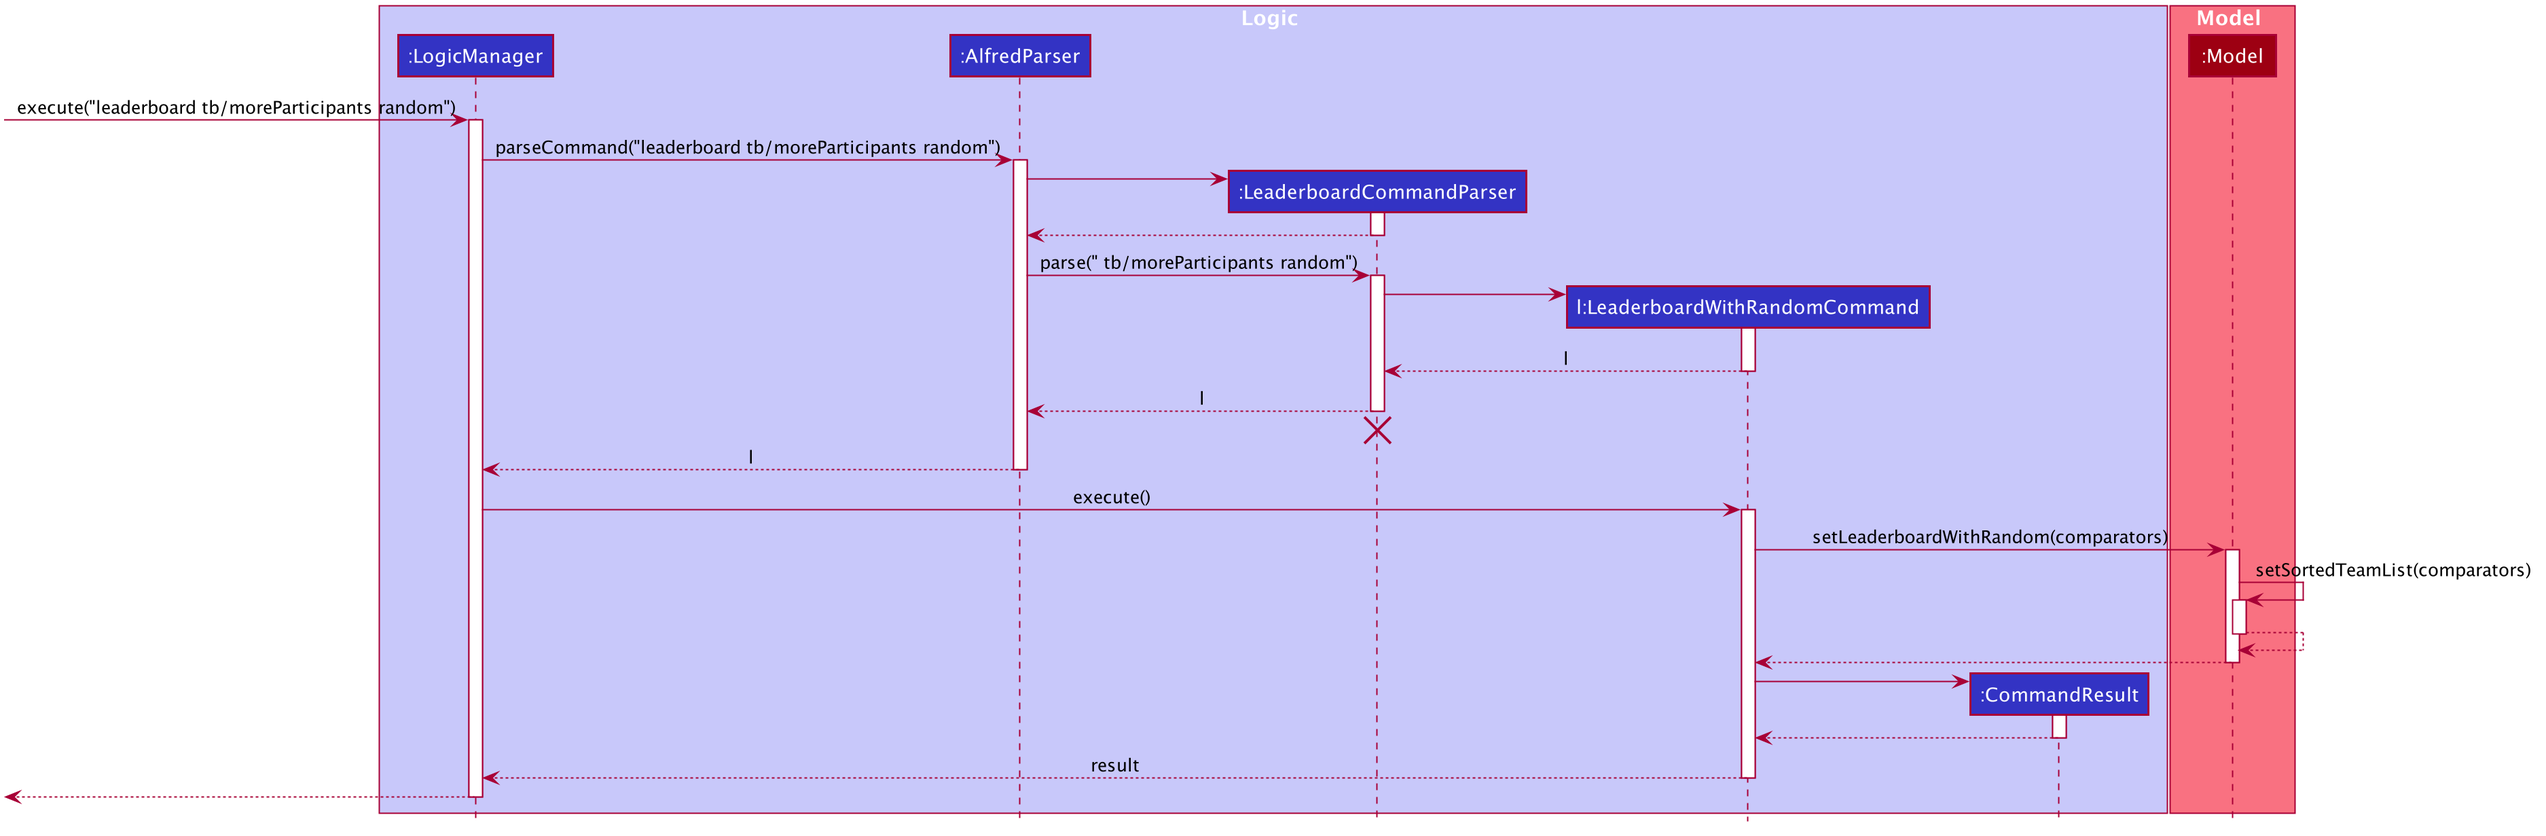
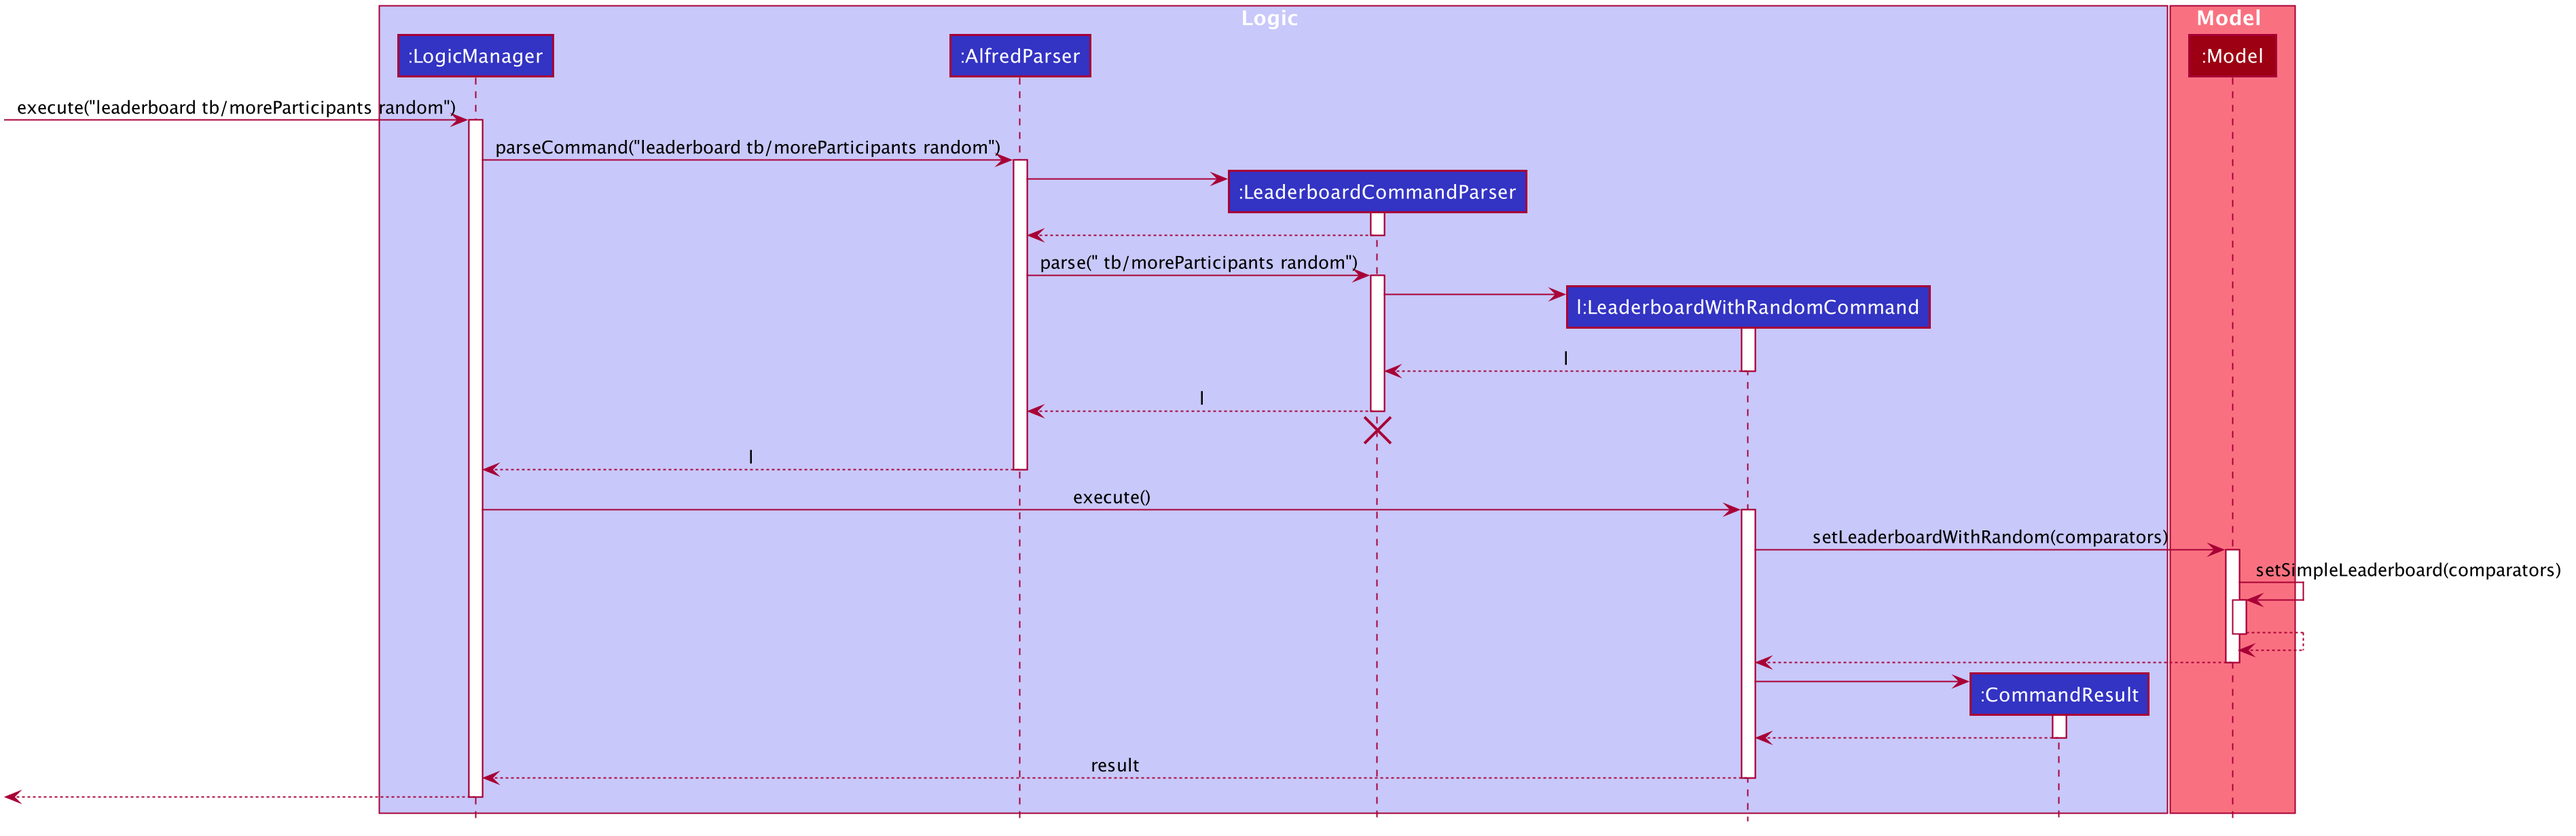
Add leaderboard to developer guide.

diff --git a/src/main/java/seedu/address/model/ModelManager.java b/src/main/java/seedu/address/model/ModelManager.java
@@ -792,12 +792,11 @@ public class ModelManager implements Model {
     //=========== Leader-Board methods ==================================================================
 
     /**
-     * Resets the sorted list of teams to its original form without any changes to sorting order so that
-     * new sorting orders in {@code comparators} can be applied applied to the sorted list to determine
-     * a new form of the leader board.
-     *
+     * Arranges the sorted team list {@code sortedTeam} to sort the current teams stored
+     * in Alfred in descending order of their score. Implements additional Comparators {@code comparators}
+     * for tie-breaking if specified by the user.
      */
-    private void setSortedTeamList(ArrayList<Comparator<Team>> comparators) {
+    public final void setSimpleLeaderboard(ArrayList<Comparator<Team>> comparators) {
         this.sortedTeam = new SortedList<>(this.teamList.getSpecificTypedList());
         for (Comparator<Team> comparator : comparators) {
             this.sortedTeam.setComparator(comparator);
@@ -809,17 +808,6 @@ public class ModelManager implements Model {
     }
 
     /**
-     * Arranges the sorted team list {@code sortedTeam} to sort the current teams stored
-     * in Alfred in descending order of their score. Implements additional Comparators {@code comparators}
-     * for tie-breaking if specified by the user.
-     */
-    public final void setSimpleLeaderboard(ArrayList<Comparator<Team>> comparators) {
-        // A simple call to this method arranges all teams in with the desired comparators,
-        // thereby reflecting the leader board.
-        setSortedTeamList(comparators);
-    }
-
-    /**
      * Arranges the sorted team list {@code sortedTeam} to sort the current teams stored in Alfred
      * in descending order of their score, implementing additional Comparators {@code comparators}
      * for tie-breaking if specified by the user. Randomly selects the winner if two teams are still
@@ -827,7 +815,7 @@ public class ModelManager implements Model {
      *
      */
     public void setLeaderboardWithRandom(ArrayList<Comparator<Team>> comparators) {
-        setSortedTeamList(comparators);
+        setSimpleLeaderboard(comparators);
         ObservableList<Team> teams = FXCollections.observableArrayList(sortedTeam);
         teams = LeaderboardUtil.randomWinnersGenerator(teams, teams.size(), comparators);
         this.sortedTeam = new SortedList<>(teams);
@@ -840,7 +828,7 @@ public class ModelManager implements Model {
      *
      */
     public final void setTopK(int k, ArrayList<Comparator<Team>> comparators) {
-        setSortedTeamList(comparators);
+        setSimpleLeaderboard(comparators);
 
         // Create a copy of the sorted teams from which teams can be removed without
         // damaging the original sorted teams list.
@@ -856,7 +844,7 @@ public class ModelManager implements Model {
      *
      */
     public final void setTopKRandom(int k, ArrayList<Comparator<Team>> comparators) {
-        setSortedTeamList(comparators);
+        setSimpleLeaderboard(comparators);
         ObservableList<Team> teams = FXCollections.observableArrayList(sortedTeam);
         teams = LeaderboardUtil.randomWinnersGenerator(teams, k, comparators);
         this.topKTeams = new SortedList<>(teams);
